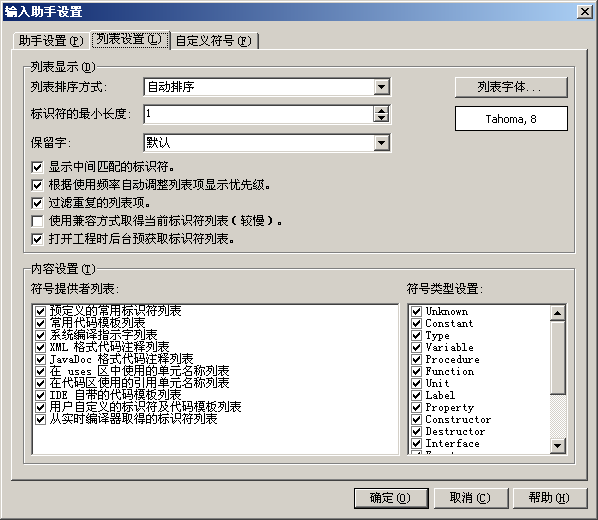
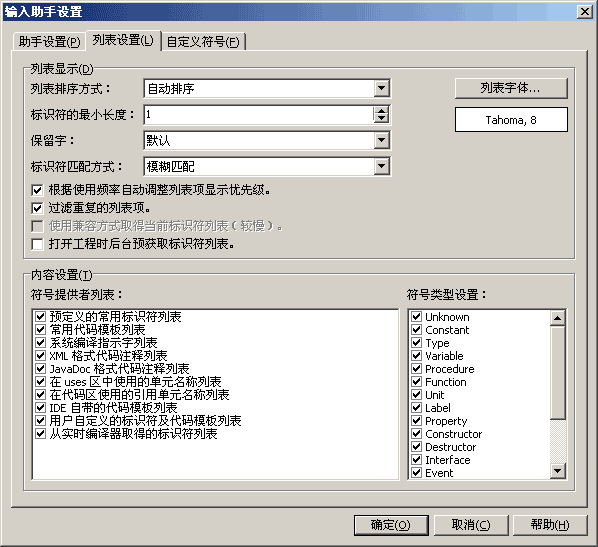
* [Input Helper] Update Help Files and Snapshots.

Changed region(s): [[0.0, 0.0, 0.9933, 0.9846], [0.9632, 0.0, 0.9933, 0.0615], [0.903, 0.7385, 0.9632, 0.7692]]

diff --git a/Help/CnWizards_ENU/ideenhance/inputhelper.htm b/Help/CnWizards_ENU/ideenhance/inputhelper.htm
@@ -20,9 +20,9 @@
 </table>
 <p class="title">Code Input Helper</p>
 <p class="text">Code Input Helper provides a way to fast inputting code. When user inputs characters in Code Editor, the List Window will popup automatically and the matched symbols will be listed in it. Now the tool only supports Delphi. About C++Builder, it can only popup IDE's code insight instead.</p>
-<p class="text">List Window and its context menu show as below:</p>  
+<p class="text">List Window and its context menu show as below:</p>
 <p class="text" align="center">
-<img src="inputhelper.png"> 
+<img src="inputhelper.png">
 </p>
 <p class="text">Now, if you input character continue, the mismatched item will be discarded. You can use Up, Down, PageUp, PageDown, Shift+Home, Shift+End and Left Button to select current item. Left and Right key can select the matched position of identifier. BackSpace and Delete key can update the list also. When press Enter, Space, Tab, Double-Click or one of the special characters in settings, the content of selected item will send to the editor. Esc, Ctrl and other function keys can close the list.</p>
 <p class="text">Code Input Helper can also input following special contents except normal identifiers:</p>
@@ -35,7 +35,7 @@
 	<li>
 	<p class="text">Comments in XML Style. When input '///', all comment templates in XML Style will be listed.</p></li>
 	<li>
-	<p class="text">Comments in JavaDoc Style. When input '{*', all comment templates in 
+	<p class="text">Comments in JavaDoc Style. When input '{*', all comment templates in
 	JavaDoc Style will be listed.</p></li>
 	<li>
 	<p class="text">Code Templates defined in IDE. Such as trycf, forb and etc.</p></li>
@@ -45,8 +45,8 @@
 	<p class="text">Macros are supported in code template.</p></li>
 </ul>
 <p class="text"><b>Tip</b>: If you feel Code Input Helper is better then IDE's Code Completion, you can disable IDE's Code Completion, then Input Helper will be used when input dot. This is useful in Delphi 5 specially.</p>
-<p class="text">&nbsp;</p>  
-<p class="text"><b>Context Menu</b></p> 
+<p class="text">&nbsp;</p>
+<p class="text"><b>Context Menu</b></p>
 <div align="center">
 </div>
 <ul>
@@ -56,7 +56,7 @@
 	<li>
     <p class="text"><b>Display Speed Buttons</b>: Display speed buttons on the right of List Window or not.</p>
   </li>
-  <li> 
+  <li>
     <p class="text"><b>Sort Style</b>: Automatic style uses scope value of items to sort. By Text, Length and Kind styles sort items by their contents.</p>
   </li>
   <li>
@@ -105,29 +105,29 @@
 <li><p class="text"><b>Output Settings</b></p></li>
 <ul>
 	<li>
-	<p class="text"><b>Input Current Item when Press</b>: 
+	<p class="text"><b>Input Current Item when Press</b>:
 	When the list showing, if press one of these characters, then send the content of current item to editor.</p></li>
 	<li>
-	<p class="text"><b>DO NOT popup after these characters</b>: 
+	<p class="text"><b>DO NOT popup after these characters</b>:
 	If you want't to display list window after pressing some characters, you can add them to these list(Use comma to seperate).</p></li>
-  <li> 
-    <p class="text"><b>Symbol Output Style</b>: 
+  <li>
+    <p class="text"><b>Symbol Output Style</b>:
 	When the cursor is in the middle of current identifier, the output is affected by this setting. Automatic style will replace the left side or whole identifier by match degree.</p>
   </li>
-	<li> 
+	<li>
     <p class="text"><b>Allow Inputting Current Item by Pressing Space</b>: When the list showing, whether send content of current item to editor by pressing Space key.</p>
   </li>
-  <li> 
+  <li>
     <p class="text"><b>Ignore Space Char after Inputting Current Item.</b>: Whether Ignore the Space Char itself after sending content of current item to editor by pressing Space key. If not, there will be a space char after entered current item in Editor.</p>
   </li>
-	<li> 
+	<li>
     <p class="text"><b>Select and Input Middle-Matched Symbol Only when Pressing Enter</b>: If current item is Middle-Matched for the input identifier, whether send it to editor only by pressing Enter.</p>
   </li>
 	<li>
 	<p class="text"><b>Auto Line Feed after Keyword when Pressing Enter</b>: When press Enter after inputting full keyword, whether auto inserts a new line.</p></li>
 	<li>
-	<p class="text"><b>Auto Insert Brackets for Function Having Parameters</b>: 
-	If current item is a function or procedure having parameters, whether auto 
+	<p class="text"><b>Auto Insert Brackets for Function Having Parameters</b>:
+	If current item is a function or procedure having parameters, whether auto
 	insert brackets and call parameter hint.</p></li>
 </ul>
 </ul>
@@ -140,42 +140,42 @@
 	<p class="text"><b>List Settings</b></p></li>
 	<ul>
 	<li>
-	<p class="text"><b>List sorted by</b>:  
+	<p class="text"><b>List sorted by</b>:
 	Automatic style uses scope value of items to sort. By Text, Length and Kind styles sort items by their contents.</p></li>
-  <li> 
+  <li>
     <p class="text"><b>List Font</b>: Set the font name and size used in symbol list.</p>
   </li>
-  <li> 
+  <li>
     <p class="text"><b>Min Length of Symbol</b>: Symbols can displayed in list only when their length is great than or equal to this number.</p>
   </li>
-	<li> 
-    <p class="text"><b>Reserved Words</b>: Set the capitalization style for 
+	<li>
+    <p class="text"><b>Reserved Words</b>: Set the capitalization style for
 	reserved words.</p>
   </li>
-  <li> 
-    <p class="text"><b>Display Middle-Matched Symbols</b>:  
-	Whether keep the symbols which Middle-Matched to current symbol. If enable, the matched part will be highlighted, else only First-Matched symbols will be kept.</p>
+  <li>
+    <p class="text"><b>Symbol Match Mode</b>:
+	This Option can control the Match Mode of Symbol in List. Modes are "From Beginning", "In Middle" and "Fuzzy".</p>
   </li>
-	<li> 
-    <p class="text"><b>Remove Duplicate Symbols</b>: Whether remove other 
+	<li>
+    <p class="text"><b>Remove Duplicate Symbols</b>: Whether remove other
 	duplicate symbols and keep one only. It will lose a little performance.</p>
   </li>
 	<li>
     <p class="text"><b>Adjust Priority Automatically according to the Frequency</b>: If enable, the symbols which user input frequency will displayed in the top of list.</p>
   </li>
-  <li> 
+  <li>
     <p class="text"><b>Use the Compatible Way to Obtain Symbols</b>: If Input Helper causes IDE or compiler unstable in some versions, you may try to enable this switch. It will be a little slower.</p>
   </li>
-  <li> 
+  <li>
     <p class="text"><b>Prefetch Symbols List When Opening Project</b>：This option allows Input Helper to prefetch symbols list in background thread when opening project to make Input Helper popup faster in the first usage.</p>
   </li>
 </ul>
 </ul>
 <ul>
-  <li> 
+  <li>
     <p class="text"><b>Content Settings</b></p>
   </li>
-  <ul>  
+  <ul>
   <li><b>Symbol Provider List</b>: Select the symbol providers which you want to used.</li>
 	<li><b>Symbol Types</b>: Select the symbol types which you want to used.</li>
   </ul>
@@ -183,20 +183,20 @@
   <p class="text" align="center">
 	<img src="inputhelperconf2.png"></p>
 <ul>
-  <li> 
+  <li>
     <p class="text"><b>Symbol List</b>: Display all User-defined symbols.</p>
   </li>
   <ul>
-  
+
   <li><b>List</b>: Select current list to modify.</li>
-  
+
   <li><b>Add</b>: Add a new symbol, may be normal identifier, compiler directive, comment, template, etc.</li>
 	<li><b>Duplicate</b>: Copy current item to a new item.</li>
 	<li><b>Delete</b>: Delete current item.</li>
 	<li><b>Default</b>: Restore current list&#39;s context to default.</li>
 	<li><b>Edit</b>: Modify current item.</li>
 	<li><b>Import</b>: Import symbols from data file. Can select replace or append mode.</li>
-	<li><b>Export</b>: Export all symbols to data file.</li>  
+	<li><b>Export</b>: Export all symbols to data file.</li>
   </ul>
   </ul>
   <ul>
@@ -204,11 +204,11 @@
     <p class="text"><b>Code Template</b>: Edit current code template, only used in "Comment" and "Template" type.</p>
   </li>
   <ul>
-  
+
   <li><b>Insert Macro</b>: Insert a pre-defined macro in current position. When click this button, a macro list menu will displayed.</li>
 	<li><b>User Macro</b>: Insert a user-defined macro in current position. When a template include User-defined macro execute, user may input the value in macro dialog.</li>
 	<li><b>Cursor</b>: Insert a cursor flag in current position, namely "|". If more than one flag exist, only the first one is valid.</li>
-	<li><b>Clear</b>: Clear the template.</li>  
+	<li><b>Clear</b>: Clear the template.</li>
   </ul>
   </ul>
 <ul>
@@ -218,7 +218,7 @@
 	<p class="text"><b>Cancel</b>: Cancel the dialog.</p></li>
   </ul>
 <ul>
-  <li> 
+  <li>
     <p class="text"><b>Help</b>: Show this help.</p>
   </li>
 </ul>
@@ -240,7 +240,7 @@
 	<p class="text" align="left"><b>Auto Indent when Multi-Line</b>: If a template is Multi-Line and this switch is on, then every line will indent automatically when output.</p>
 	</li>
 	<li>
-	<p class="text" align="left"><b>Always Popup Even Inputting Text is Full 
+	<p class="text" align="left"><b>Always Popup Even Inputting Text is Full
 	Match</b>: Whether ignore &quot;<b>Intelligent Popup</b>&quot; switch for this symbol.</p>
 	</li>
 	<li>
